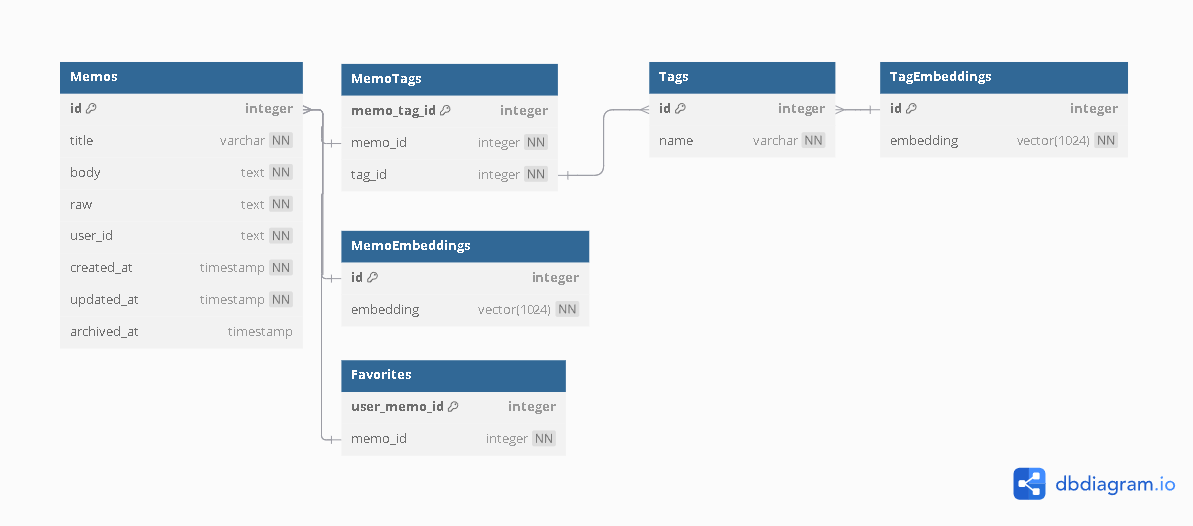
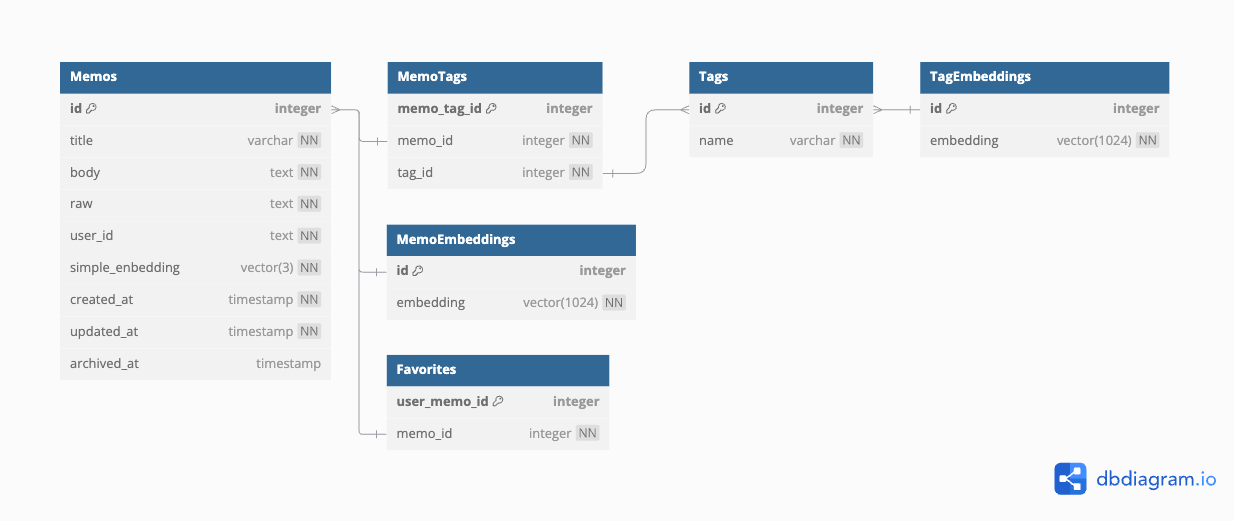
docs: update

diff --git a/docs/endpoint.md b/docs/endpoint.md
@@ -24,18 +24,6 @@ http://localhost:8000
 
 ---
 
-### `GET /memos/embedding` (MCP only)
-- **説明**: メモの埋め込みモデルを取得
-- **リクエスト**:
-    - **ヘッダ**:
-        - `Authorization`: Bearer トークン（必須）
-- **レスポンス**:
-    - 200: メモ一覧（`[MemoFullResponse]`）
-    - 401: 認証情報が不正
-    - 404: メモが存在しない
-
----
-
 ### `GET /memos/{memo_id}`
 - **説明**: 指定されたメモの詳細を取得
 - **リクエスト**:
@@ -79,7 +67,7 @@ http://localhost:8000
     - 401: 認証情報が不正
     - 422: リクエストが不正
 
-### 'PUT /memos/{memo_id}'
+### `PUT /memos/{memo_id}`
 - **説明**: メモの修正
 - **リクエスト**:
     - **ヘッダ**:
@@ -94,7 +82,7 @@ http://localhost:8000
     - 404: メモが存在しない
     - 422: リクエストが不正
 
-### 'PATCH /memos/{memo_id}/body'
+### `PATCH /memos/{memo_id}/body`
 - **説明**: メモの文章修正(http版)
 - **リクエスト**:
     - **パスパラメータ**:
@@ -111,7 +99,7 @@ http://localhost:8000
 
 ---
 
-### 'PATCH /memos/{memo_id}/title'
+### `PATCH /memos/{memo_id}/title`
 - **説明**: メモのタイトル修正
 - **リクエスト**:
     - **パスパラメータ**:
@@ -126,7 +114,7 @@ http://localhost:8000
     - 404: メモが存在しない
     - 422: リクエストが不正
 
-### 'PATCH /memos/{memo_id}/tag'
+### `PATCH /memos/{memo_id}/tag`
 - **説明**: メモのタグ修正
 - **リクエスト**:
     - **パスパラメータ**:
@@ -143,7 +131,7 @@ http://localhost:8000
 
 ---
 
-### `PUT /memos/{memo_id}/favorite`
+### `PATCH /memos/{memo_id}/favorite`
 - **説明**: メモのお気に入り情報を更新
 - **リクエスト**:
     - **パスパラメータ**:
@@ -160,7 +148,7 @@ http://localhost:8000
 
 ---
 
-### `PUT /memos/{memo_id}/archive`
+### `PATCH /memos/{memo_id}/archive`
 - **説明**: メモのアーカイブ情報を更新
 - **リクエスト**:
     - **パスパラメータ**:
@@ -204,18 +192,6 @@ http://localhost:8000
     - 200: タグ一覧（`[TagResponse]`）
     - 401: 認証情報が不正
     - 422: リクエストが不正
-
----
-
-### `GET /tags/embedding` (MCP only)
-- **説明**: タグの埋め込みモデルを取得
-- **リクエスト**:
-    - **ヘッダ**:
-        - `Authorization`: Bearer トークン（必須）
-- **レスポンス**:
-    - 200: メモ一覧（`[TagFullResponse]`）
-    - 401: 認証情報が不正
-    - 404: メモが存在しない
 
 ---
 
